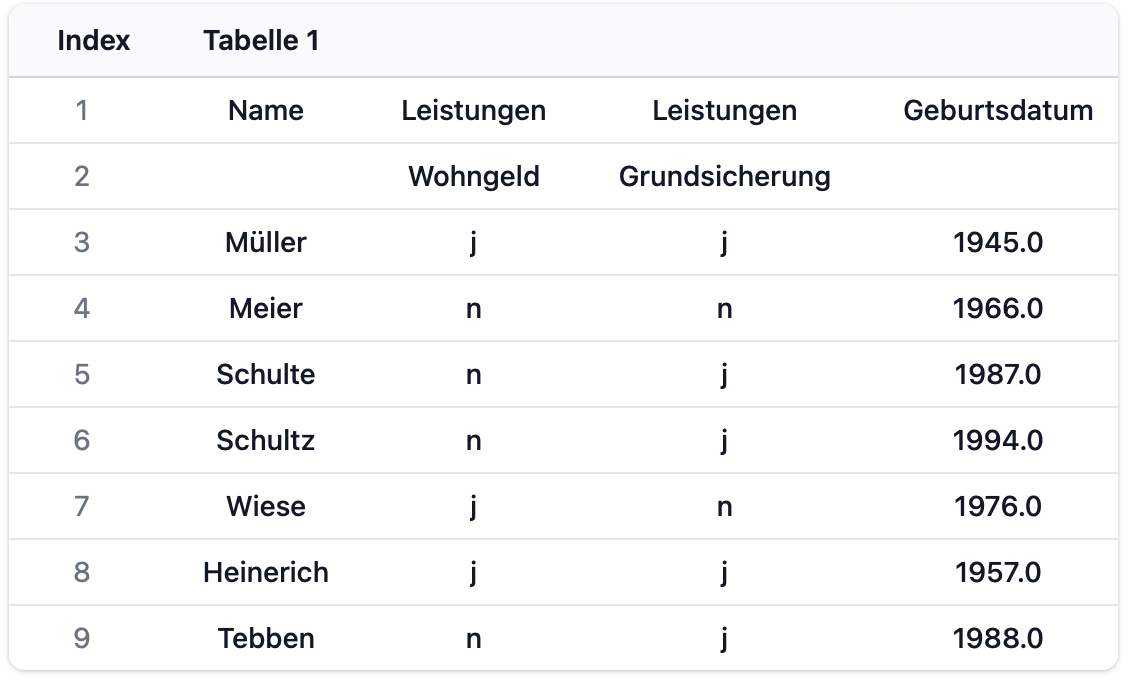
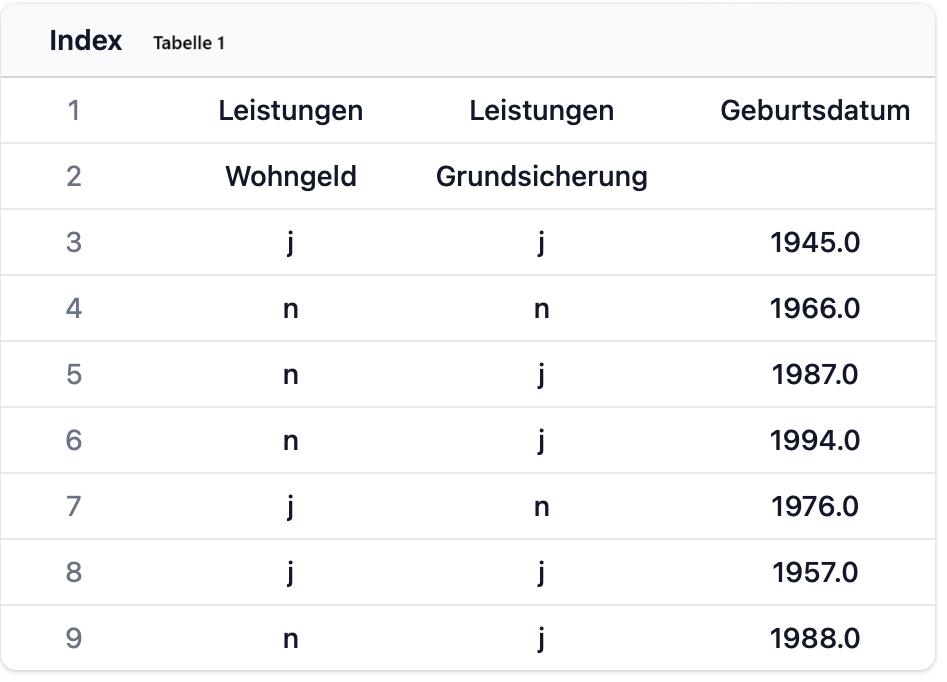
change pictures

diff --git a/src/Wiki.jsx b/src/Wiki.jsx
@@ -219,11 +219,11 @@ export default function Wiki() {
                     <div className="flex justify-around p-4 ">
                         <figure>
                             <figcaption className="font-semibold">Vorher </figcaption>
-                            <img className=" object-contain" src="public/wiki/FillEmptyColumn.png" alt="fill empty column" />
+                            <img className="h-[40vh] object-contain" src="public/wiki/FillEmptyColumn.png" alt="fill empty column" />
                         </figure>
                         <figure>
                             <figcaption className="font-semibold"> Nachher</figcaption>
-                            <img className=" object-contain" src="public/wiki/FillEmptyColumn_Result.png" alt="fill empty column" />
+                            <img className="h-[40vh] object-contain" src="public/wiki/FillEmptyColumn_Result.png" alt="fill empty column" />
                         </figure>
                     </div>
                    
@@ -242,9 +242,8 @@ export default function Wiki() {
                     </p>
                     <p className="text-left font-semibold mt-4">Beispiel: </p>
                     <p className="text-left">
-                        Wir wollen im folgenden Beispiel die Spalte "Name" am Anfang der Tabelle löschen.
-                        <br/> <br/>
-                        Wir geben den Spaltenindex (die Spaltennummer) 0 an. 
+                        Wir wollen im folgenden Beispiel die Spalte "Stadtviertel" am Anfang der Tabelle löschen.
+                        
                     </p>
                     <div className="flex justify-center">
                         <figure>
@@ -254,7 +253,7 @@ export default function Wiki() {
                     <div className="flex justify-around p-4 ">
                         <figure>
                             <figcaption className="font-semibold"> Vorher </figcaption>
-                            <img className=" object-contain" src="../public/wiki/RemoveColumn.png" alt="remove Column" />
+                            <img className=" object-contain" src="/public/wiki/standardTable.png" alt="remove Column" />
                         </figure>
                         <figure>
                             <figcaption className="font-semibold"> Nachher</figcaption>
@@ -275,9 +274,7 @@ export default function Wiki() {
                     </p>
                         <p className="text-left font-semibold mt-4">Beispiel: </p>
                         <p className="text-left">
-                            Hier haben wir ein Zeilenduplikat, welches wir löschen möchten. Gemeint sind Zeilen 6 und 7.
-                            <br/> <br/>
-                            Wir geben 6 für die zu löschende Zeile an.
+                            Hier wollen wir Zeile 1 und 2 löschen.
                         </p>
                         <div className="mt-5 flex justify-center">
                             <figure>
@@ -288,7 +285,7 @@ export default function Wiki() {
                         <div className="flex justify-around p-4 ">
                             <figure>
                                 <figcaption className="font-semibold"> Vorher </figcaption>
-                                <img className="object-contain" src="public/wiki/RemoveRow.png" alt="remove row" />
+                                <img className="object-contain" src="public/wiki/standardTable.png" alt="remove row" />
                             </figure>
                             <figure>
                                 <figcaption className="font-semibold"> Nachher</figcaption>
